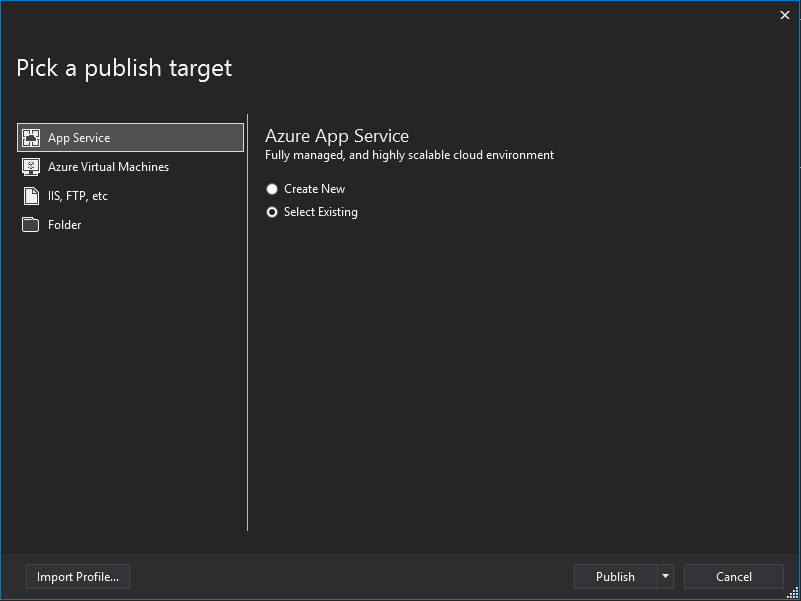
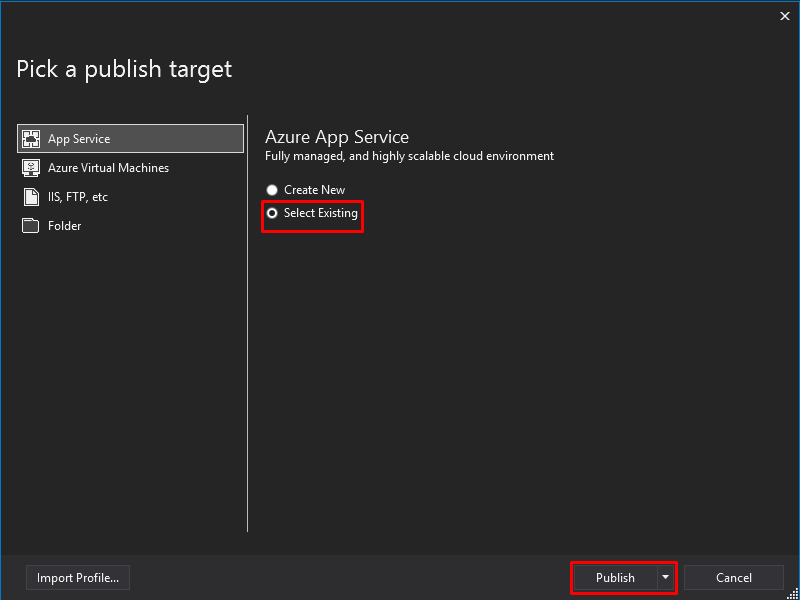
Updated docs

diff --git a/README.md b/README.md
@@ -1,19 +1,37 @@
 # Introduction 
+
+# Getting started
+1. Ensure you have Visual Studio 2017 installed.
+2. Download the base solution from [here](https://intergen1-my.sharepoint.com/:f:/g/personal/openders_intergen_org_nz/Et7L8EqkBWxCk6pK78_8UrUBgeKqr1vaoywMF38NjKxTEw). _Suggestion: create a git repository and host it somewhere to collaborate and track changes._
+3. Open the solution
+4. Right click on the solution > Restore nuget packages
+5. Build solution
+6. Start debugging the API project (F5)
+7. Open the Bot Emulator
+8. Navigate to http://localhost:3978/api/messages and press connect.
+
+## Test locally with the Bot Emulator
+1. Install the bot emulator using the instructions [here](https://github.com/Microsoft/BotFramework-Emulator/wiki/Getting-Started).
+2. Once your project has started, open the bot emulator, navigate to http://localhost:3978/api/messages and press connect.
+
+![Setup-3](./assets/Setup-3.png)
+
+3. If successful, you should see 200 in the bot emulator logs.
+
+![Setup-4](./assets/Setup-4.png)
+
+4. **SAY HI!**
+
+![Setup-5](./assets/Setup-5.png)
+
 # Set up Azure Environment
 We will set up a Web App Bot as a base.
 
 ![Setup-1](./assets/Setup-1.png)
 
-Enter a bot name, and the remaining fields should automatically populate. Use the Basic C# bot template if using the Hackfest starter project.
+Enter a bot name, and the remaining fields should automatically populate. Use the Basic C# bot template if using the Hackfest starter project. ([MSDN](https://docs.microsoft.com/en-us/azure/bot-service/bot-service-quickstart))
 
 ![Setup-2](./assets/Setup-2.png)
-
-# Set up local dev environment
-
-Download the starter project from [here](https://intergen1-my.sharepoint.com/:f:/g/personal/openders_intergen_org_nz/Et7L8EqkBWxCk6pK78_8UrUBgeKqr1vaoywMF38NjKxTEw). 
-
-## Test locally with the Bot Emulator
-https://github.com/Microsoft/BotFramework-Emulator/wiki/Getting-Started
 
 # Publish
 Follow the steps below to deploy to Azure.
@@ -21,6 +39,8 @@ Follow the steps below to deploy to Azure.
 ![Publish-1](./assets/Publish-1.png)
 
 ![Publish-2](./assets/Publish-2.png)
+
+Select the app service created when you created the bot resource.
 
 ![Publish-3](./assets/Publish-3.png)
 
@@ -31,12 +51,15 @@ Follow the steps below to deploy to Azure.
 Make sure to republish after changing settings.
 ![Publish-6](./assets/Publish-6.png)
 
-## Configure DirectLine channel and WebChat
+## Configure Channels
 
+MSDN documentation for configuring channels, speech priming etc [here](https://docs.microsoft.com/en-us/azure/bot-service/bot-service-manage-channels).
+
+### DirectLine
 ![Publish-7](./assets/Publish-7.png)
 
 ![Publish-8](./assets/Publish-8.png)
 
-Republish, and then you can navigate to https://your-bot-name.azurewebsites.net/ to view the chatbox.
+Republish, and then you can navigate to https://your-bot-name.azurewebsites.net/ to use the chatbox.
 
 You can also navigate to http://localhost:3979/default.htm to view the same page, although the bot will still be connected to the deployed version in Azure. To debug a local version of the bot, use the bot emulator.
